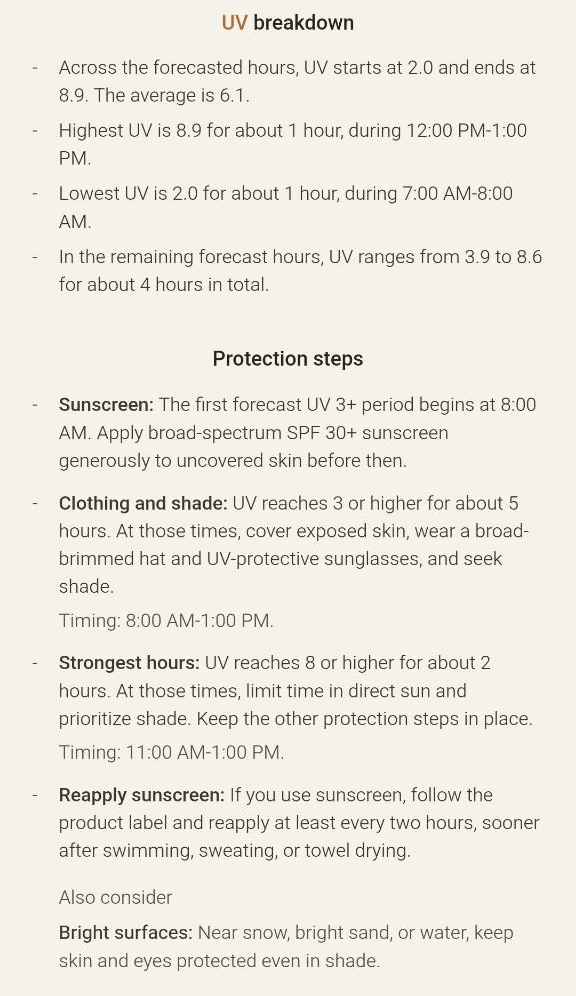
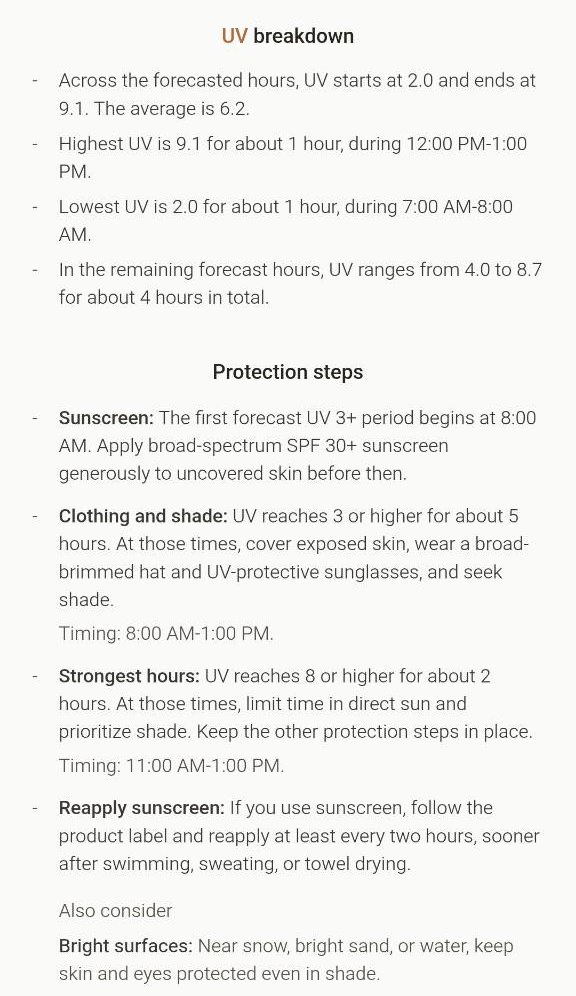
Built site for gh-pages

Changed region(s): [[0.0938, 0.3424, 0.9375, 0.996], [0.0938, 0.0, 0.9375, 0.3112]]

diff --git a/projects/a_bit_of_everything/uv_scout.html b/projects/a_bit_of_everything/uv_scout.html
@@ -234,21 +234,21 @@ ul.task-list li input[type="checkbox"] {
 <p>The summary and recommendations are intended to <strong>support planning</strong>. They don’t take into account an individual’s UV exposure, their personal health risk, skin sensitivity or shade along a route, so its guidance isn’t tailored to those conditions.</p>
 <section id="an-outing-example-in-cape-town" class="level4">
 <h4 class="anchored" data-anchor-id="an-outing-example-in-cape-town">An outing example in Cape Town</h4>
-<p>For a real example, we can choose Cape Town and plan six hours outside on November 8, 2026, from 7:00 AM to 1:00 PM. All times are local to Cape Town. These screenshots were captured from the live app on November 7, 2026, so the values describe the forecast available then.</p>
+<p>For a real example, we can choose Cape Town and plan six hours outside on November 10, 2026, from 7:00 AM to 1:00 PM. All times are local to Cape Town. These screenshots were captured from the live app on November 9, 2026, so the values describe the forecast available then.</p>
 <div class="app-screenshot-pair quarto-layout-panel" data-layout-ncol="2">
 <div class="quarto-layout-row quarto-layout-valign-top">
 <div class="quarto-layout-cell" style="flex-basis: 50.0%;justify-content: center;">
-<p><img src="saved_files/uv_scout/cape-town-outing-uv-summary-mobile.png" class="click-zoom img-fluid" alt="UV Scout's UV summary for Cape Town, November 8, 2026, from 7:00 AM to 1:00 PM, captured on a phone."></p>
+<p><img src="saved_files/uv_scout/cape-town-outing-uv-summary-mobile.png" class="click-zoom img-fluid" alt="UV Scout's UV summary for Cape Town, November 10, 2026, from 7:00 AM to 1:00 PM, captured on a phone."></p>
 </div>
 <div class="quarto-layout-cell" style="flex-basis: 50.0%;justify-content: center;">
-<p><img src="saved_files/uv_scout/cape-town-outing-protection-weather-mobile.png" class="click-zoom img-fluid" alt="UV Scout's UV breakdown and protection steps for the Cape Town outing on November 8, 2026, from 7:00 AM to 1:00 PM."></p>
+<p><img src="saved_files/uv_scout/cape-town-outing-protection-weather-mobile.png" class="click-zoom img-fluid" alt="UV Scout's UV breakdown and protection steps for the Cape Town outing on November 10, 2026, from 7:00 AM to 1:00 PM."></p>
 </div>
 </div>
 </div>
 <p class="figure-caption">
 Screenshots of the version of UV Scout available when this post was written. The app may have changed since then.
 </p>
-<p>Across this six-hour outing, the forecast UV Index ranges from 2.0 to 8.9 and averages 6.1. It starts in the Low range, reaches Very high by the hour ending at 11:00 AM, and stays at 8 or higher from 11:00 AM to 1:00 PM.</p>
+<p>Across this six-hour outing, the forecast UV Index ranges from 2.0 to 9.1 and averages 6.2. The highest value, 9.1, is expected between noon and 1:00 PM. The UV Index reaches the app’s Very high category by 11:00 AM and is 8 or higher from 11:00 AM to 1:00 PM.</p>
 <p>UV Scout connects those changing levels to timed guidance. It recommends sun protection from 8:00 AM, when the UV Index first reaches 3, and extra care during the final two hours, when the UV Index is 8 or higher. The steps include applying sunscreen before the first UV 3+ period, covering exposed skin, protecting the eyes, seeking shade, and limiting direct sun during the strongest hours.</p>
 </section>
 </section>
